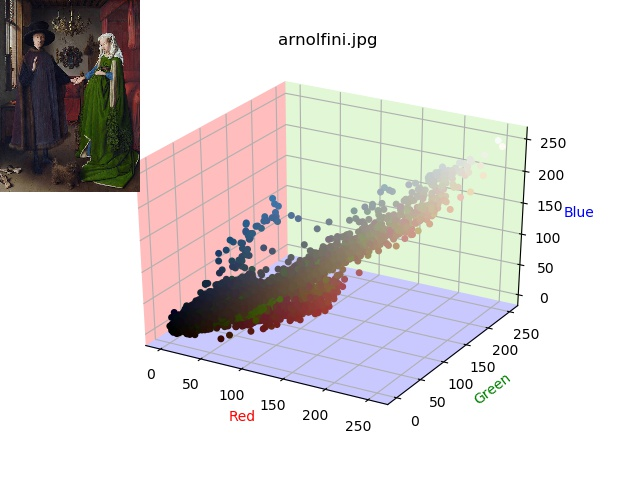
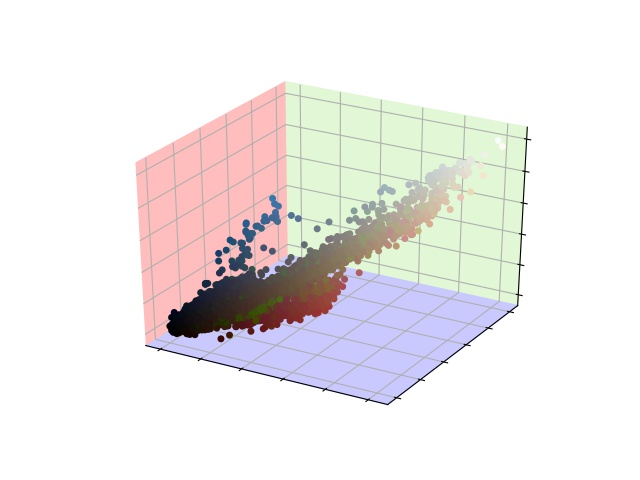
Added more features, added output images

diff --git a/3DScatterPlot/PlotImage.py b/3DScatterPlot/PlotImage.py
@@ -10,7 +10,7 @@ import os.path
 # Colors are an RGB or RGBA tuple of floats in [0, 1]
 # colors = [tuple(image[r, c,:] / 255) for r in range(image.shape[0]) for c in range(image.shape[1])]
 
-def plot(imagePath, points=10000, pprint=False, save=False):
+def plot(imagePath, points=10000, pprint=False, save=False, display=True):
     """
     Plot an image as a 3D scatter plot
 
@@ -56,14 +56,19 @@ def plot(imagePath, points=10000, pprint=False, save=False):
     ax.w_yaxis.set_pane_color((225/255,247/255,213/255,255/255))
     ax.w_zaxis.set_pane_color((201/255,201/255,255/255,255/255))
 
+    # Allow to save - change filename based on prettyprint setting
     if save:
-        plt.savefig(prepend_pprint(path))
-    plt.show()
+        if pprint:
+            plt.savefig(prepend_pprint(path, 'pprint-'))
+        else:
+            plt.savefig(prepend_pprint(path, 'print-'))
+    if display:
+        plt.show()
 
-def prepend_pprint(path):
-    """ Adds 'pprint-' before the filepath name """
+def prepend_pprint(path, prefix):
+    """ Adds prefix before the filepath name """
     (head, tail) = os.path.split(path)
-    return os.path.join(head, 'pprint-' + tail)
+    return os.path.join(head, prefix + tail)
 
 
 def is_valid_image(arg):
@@ -92,10 +97,11 @@ if __name__ =="__main__":
     parser = argparse.ArgumentParser(description='Creates a 3D scatter plot of the colors present in an image')
     parser.add_argument('input_files', metavar='IMG_PATHS', nargs='+',
                         type=is_valid_image, help="Image filepaths to plot")
-    parser.add_argument('-p', '--points', type=int,
+    parser.add_argument('-p', '--points', type=int, metavar="Pts",
                         default=10000, help="Max number of pixels to plot")
     parser.add_argument('-pp', '--pprint', help='Prints the scatter plots without extra information', action='store_true' )
-    parser.add_argument('-s', '--save', help='Saves each plotted image as pprint-originalfilename', action='store_true')
+    parser.add_argument('-s', '--save', help='Saves each plot prefixed with pprint- or print-', action='store_true')
+    parser.add_argument('--nodisplay', help="Don't graph plots", action='store_true')
     args = parser.parse_args()
     for path in args.input_files:
-        plot(path, args.points, args.pprint, args.save)
+        plot(path, args.points, args.pprint, args.save, not args.nodisplay)

diff --git a/README.md b/README.md
@@ -25,4 +25,5 @@ optional arguments:
 ```
 
 ### 2.  Processing Reddit links
-This script takes a list of links and regular text as input,
+This script takes a list of links & regular text as input and converts the links
+titles into a readable format.
